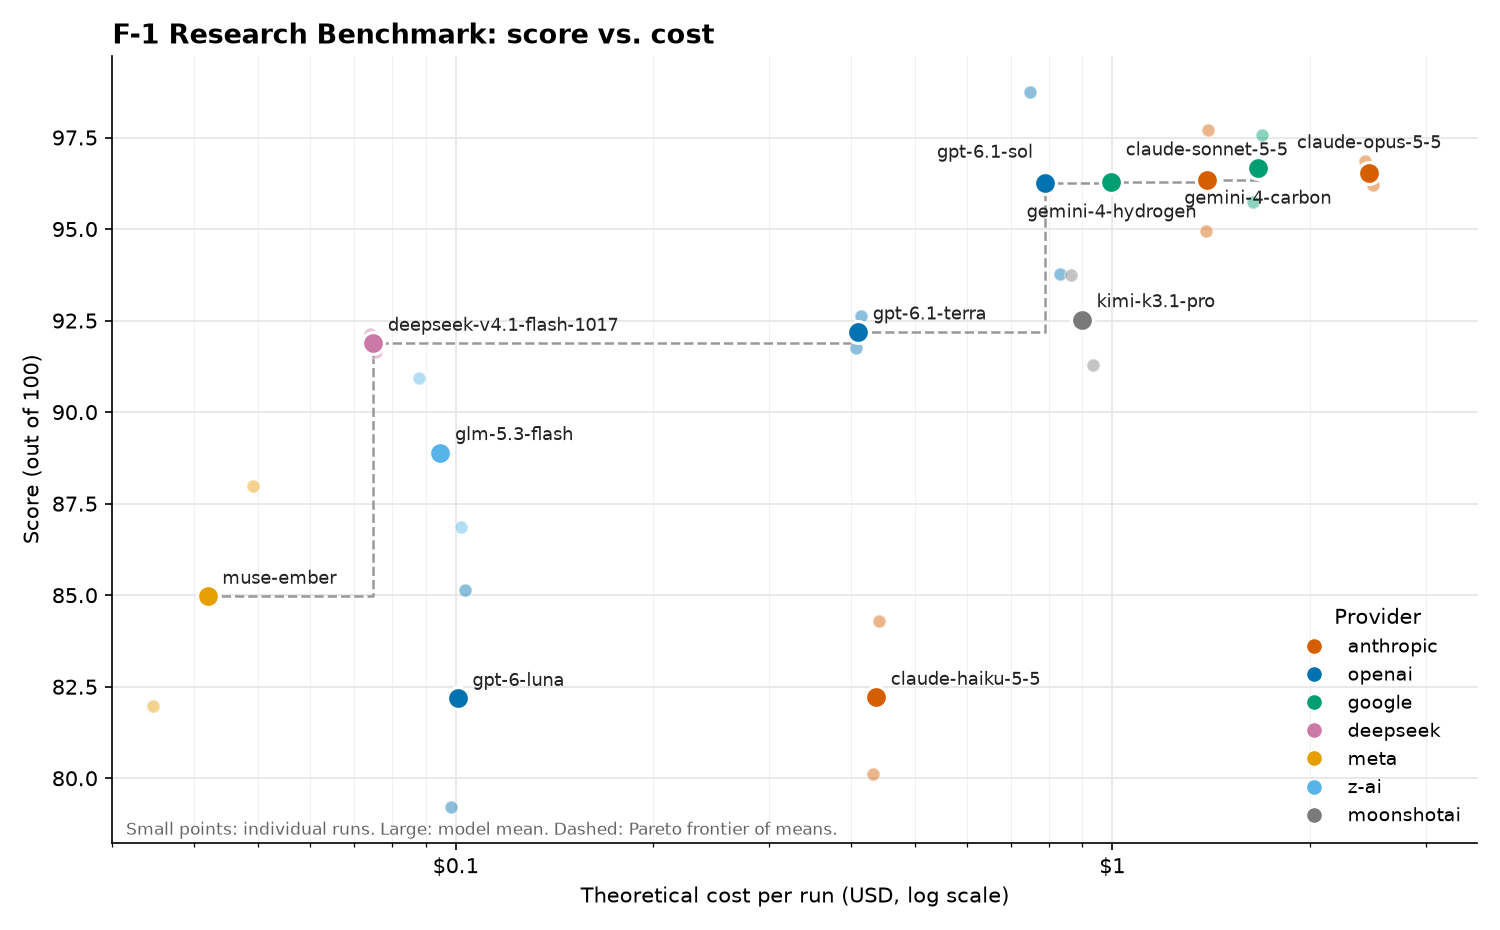
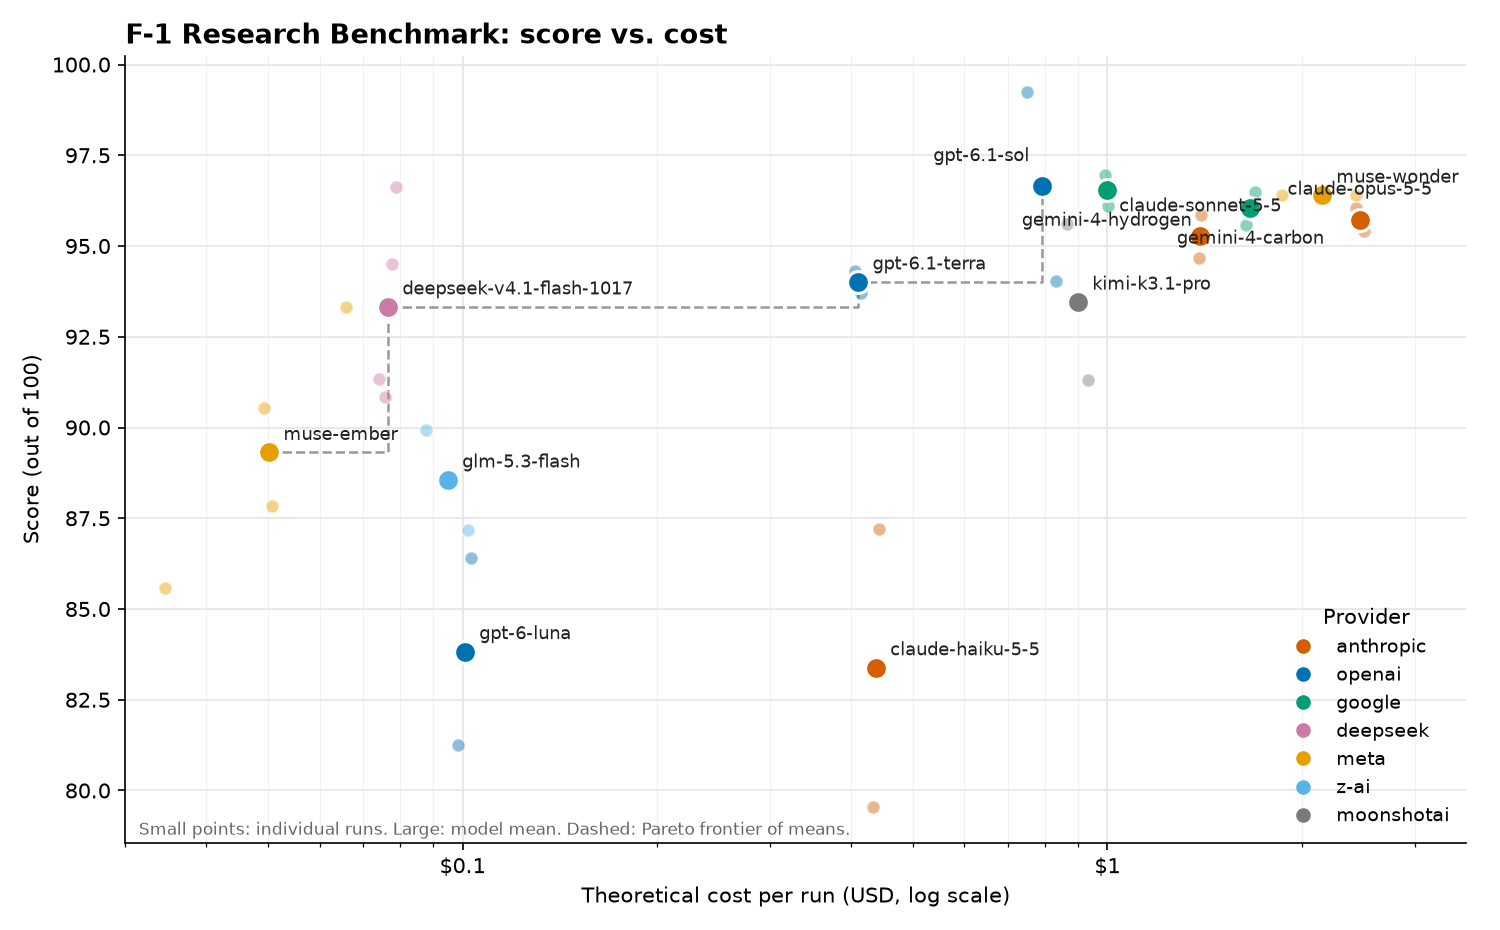
Add muse-wonder pricing, cost new runs, move cost files to analysis/
Claude-Session: https://claude.ai/code/session_01UYvC1gpHTiYg1EbrarUWNB

diff --git a/analysis/theoretical_cost.py b/analysis/theoretical_cost.py
@@ -3,7 +3,8 @@ token that cannot (new user prompt / tool results) is a cache miss. Prices in
 pricing.csv are USD per 1M tokens. Writes runs_theoretical_cost.csv."""
 import csv, json, pathlib
 
-ROOT = pathlib.Path(__file__).parent
+HERE = pathlib.Path(__file__).parent
+ROOT = HERE.parent
 # Context-size tier thresholds (input tokens per request). The OpenAI threshold is
 # not given in pricing.csv; 272K is assumed (no request in the runs exceeds 234K).
 LONG = {"anthropic/claude-haiku-5-5": 100_000, "meta/muse-ember": 200_000,
@@ -11,7 +12,7 @@ LONG = {"anthropic/claude-haiku-5-5": 100_000, "meta/muse-ember": 200_000,
         "openai/gpt-6-luna": 272_000}
 
 prices = {}
-for r in csv.DictReader(open(ROOT / "pricing.csv")):
+for r in csv.DictReader(open(HERE / "pricing.csv")):
     prices.setdefault(r["model"], {})[r["tier"]] = r
 
 def pick(model, tier_key):
@@ -61,7 +62,7 @@ for f in sorted((ROOT / "runs").glob("*/transcript.json")):
                  "input_tokens": u["input_tokens"], "output_tokens": u["output_tokens"],
                  "theoretical_cost_usd": round(c.get(None, c.get("off-peak", 0)), 4),
                  "theoretical_cost_peak_usd": round(c["peak"], 4) if "peak" in c else ""})
-with open(ROOT / "runs_theoretical_cost.csv", "w", newline="") as fh:
+with open(HERE / "runs_theoretical_cost.csv", "w", newline="") as fh:
     w = csv.DictWriter(fh, fieldnames=rows[0].keys()); w.writeheader(); w.writerows(rows)
 for r in rows:
     print(r["run"][:50].ljust(50), r["theoretical_cost_usd"], r["theoretical_cost_peak_usd"])

diff --git a/analysis/plot_cost_vs_score.py b/analysis/plot_cost_vs_score.py
@@ -32,7 +32,7 @@ def score(run):
     return totals[-1] if totals else None
 
 
-df = pd.read_csv(ROOT / "runs_theoretical_cost.csv")
+df = pd.read_csv(OUT / "runs_theoretical_cost.csv")
 df["score"] = df["run"].map(score)
 df["provider"] = df["model"].str.split("/").str[0]
 df["name"] = df["model"].str.split("/").str[1]

diff --git a/README.md b/README.md
@@ -25,8 +25,8 @@ The task states the world as of **November 14, 2026**. The 16 questions are wort
 | `ANSWER_KEY.md` | Confidential reference answers. **Never show it to the agent under test.** |
 | `rubric.toml` | Machine-readable criteria derived from the answer key, with points, caps, gates and penalties. |
 | `runs/` | Output of runs and grades (committed). |
-| `pricing.csv` | Per-model token prices (USD per 1M tokens), by context tier. |
-| `theoretical_cost.py` | Computes each run's theoretical cost from its transcript and `pricing.csv`; writes `runs_theoretical_cost.csv`. |
+| `analysis/pricing.csv` | Per-model token prices (USD per 1M tokens), by context tier. |
+| `analysis/theoretical_cost.py` | Computes each run's theoretical cost from its transcript and `pricing.csv`; writes `analysis/runs_theoretical_cost.csv`. |
 | `analysis/` | `plot_cost_vs_score.py` plots score against cost; outputs `cost_vs_score.png` and `model_summary.csv`. |
 
 ## Setup
@@ -87,7 +87,7 @@ Grader outputs go to `<run>/grades/<grade-id>/` (or `--out`): `transcript.json`,
 ## Cost and analysis
 
 ```bash
-uv run theoretical_cost.py               # writes runs_theoretical_cost.csv
+uv run analysis/theoretical_cost.py      # writes analysis/runs_theoretical_cost.csv
 uv run analysis/plot_cost_vs_score.py    # writes analysis/cost_vs_score.png and model_summary.csv
 ```
 

diff --git a/CLAUDE.md b/CLAUDE.md
@@ -17,7 +17,7 @@ uv run grader.py runs/<run-id> --model <grader-model> --effort high
 uv run grader.py --answer file.md --model <grader-model>   # grade an arbitrary Markdown answer
 uv run grader.py --rescore runs/<run-id>/grades/<grade-id> # recompute points from saved verdicts (no LLM call)
 uv run fr_tool.py grep 2026-14439 "within 5 months" --context 3   # tools also work as a CLI (search/doc/toc/text/grep)
-uv run theoretical_cost.py                                 # writes runs_theoretical_cost.csv from pricing.csv + run transcripts
+uv run analysis/theoretical_cost.py                        # writes analysis/runs_theoretical_cost.csv from pricing.csv + run transcripts
 uv run analysis/plot_cost_vs_score.py                      # cost vs. score plot in analysis/
 ```
 
